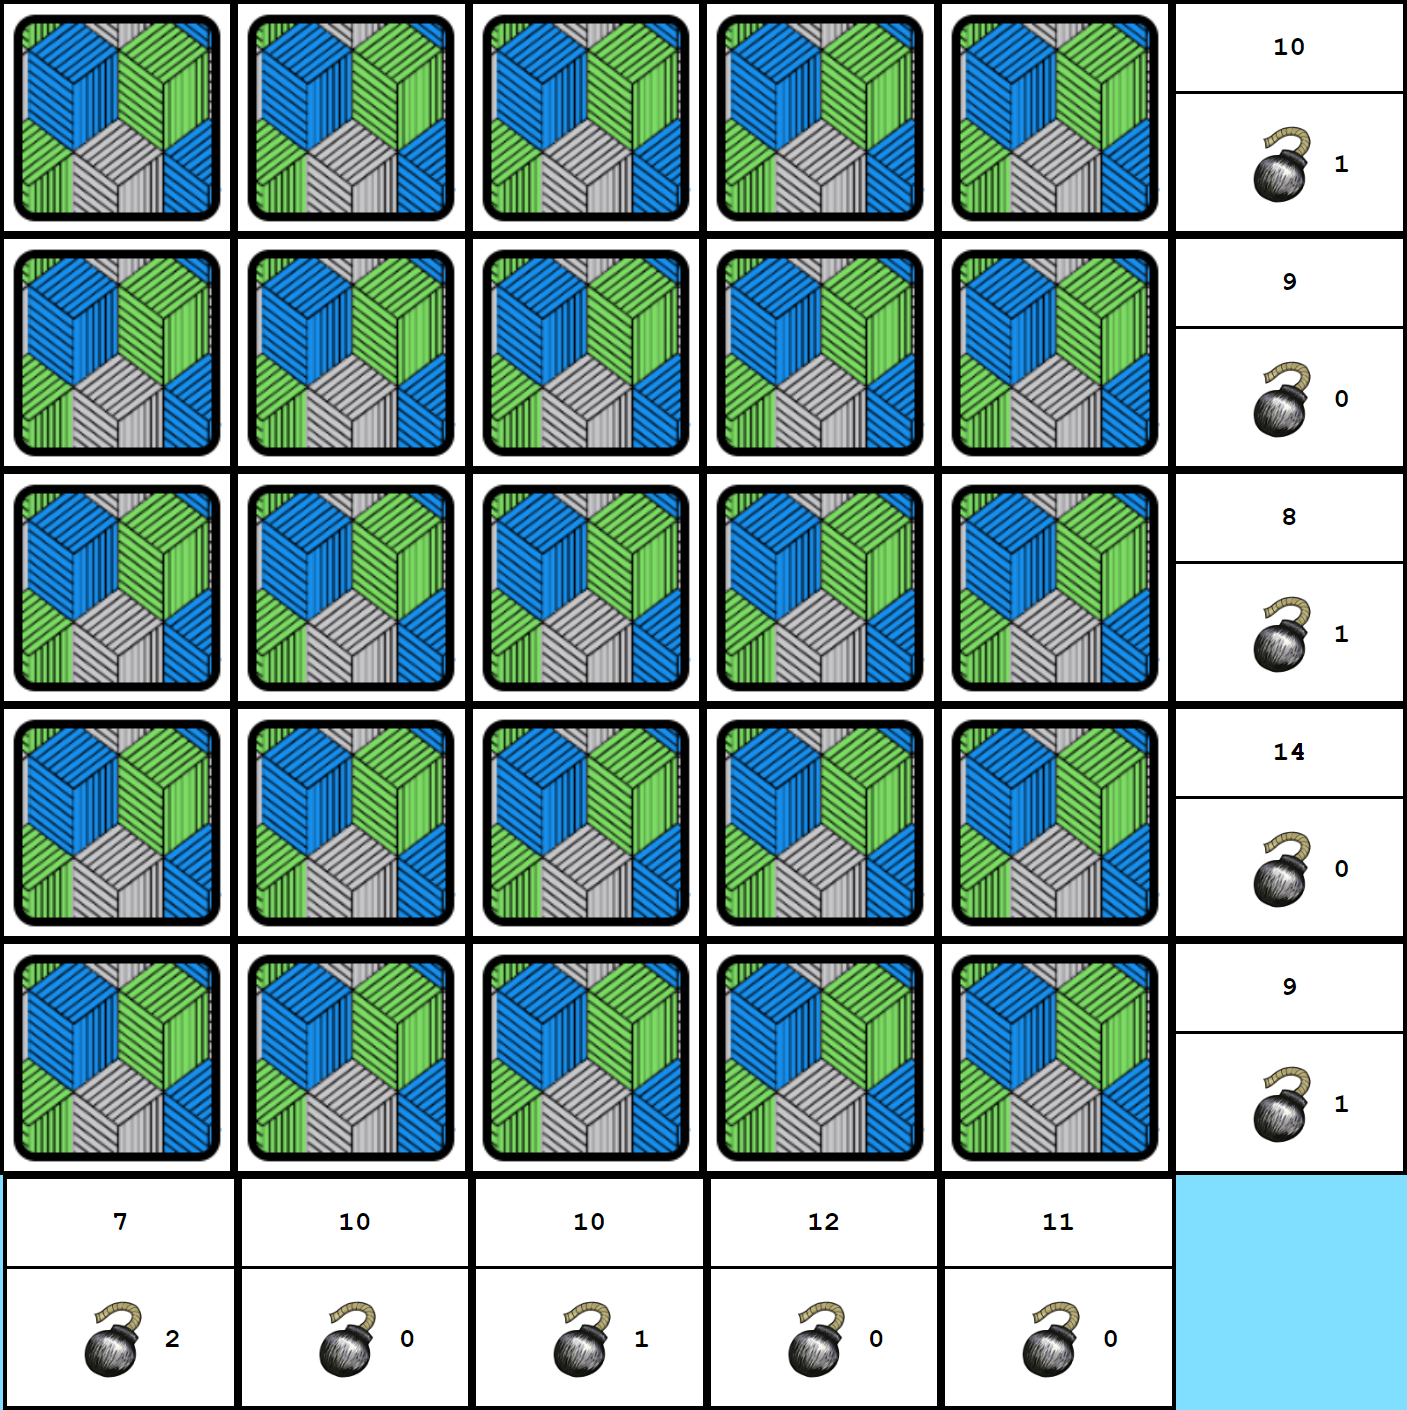
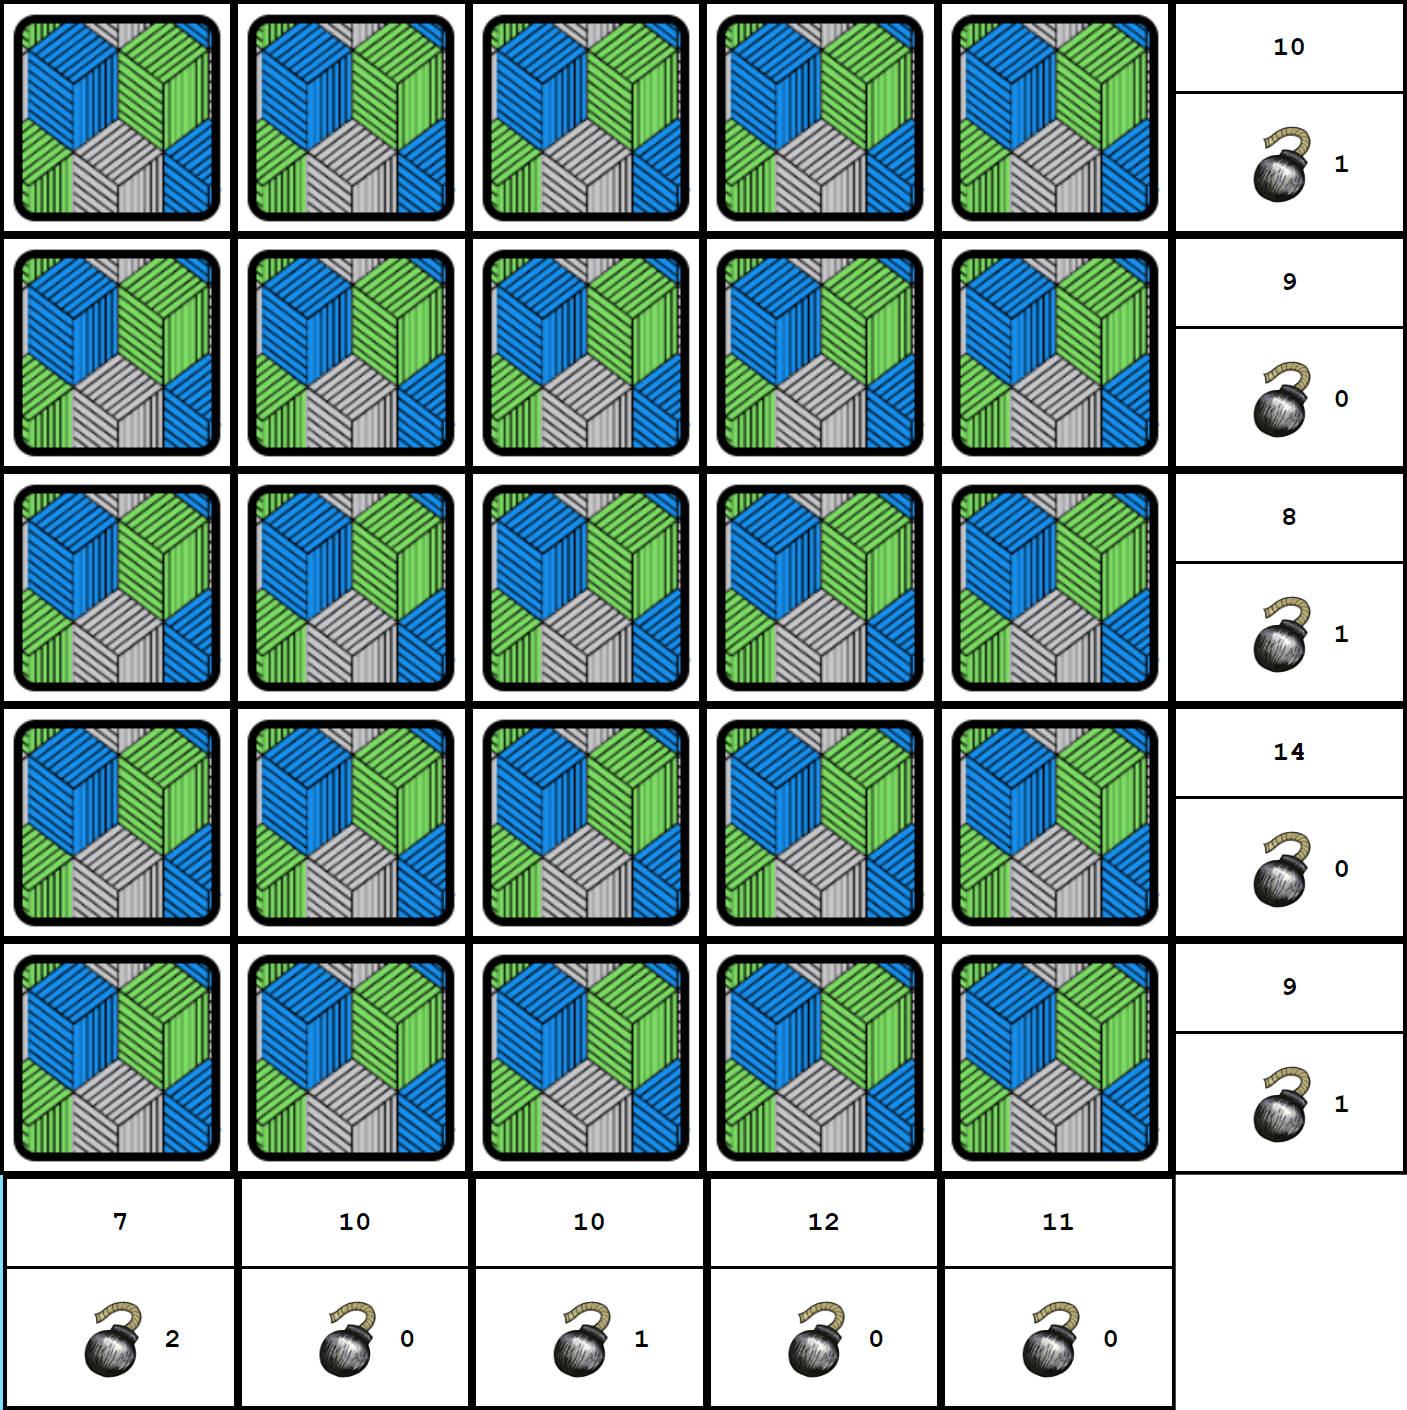
Changed BombFlip styling

Changed region(s): [[0.8252, 0.8113, 1.0, 1.0]]

diff --git a/bombflip/css/bombflip.css b/bombflip/css/bombflip.css
@@ -46,7 +46,7 @@ a:hover, a:visited:hover {
   display: inline-block; }
 
 .play-button {
-  border: 2px solid white;
+  border: 5px dashed white;
   font-weight: bold;
   font-size: 20px;
   padding: 10px;
@@ -54,7 +54,7 @@ a:hover, a:visited:hover {
 
 .how-to-button {
   margin-top: 20px;
-  border: 2px solid white;
+  border: 5px dashed white;
   font-weight: bold;
   font-size: 20px;
   padding: 10px;
@@ -173,15 +173,21 @@ a:hover, a:visited:hover {
 
 .game-board {
   width: 50%;
-  display: inline-block; }
+  display: inline-block;
+  background-color: white;
+  padding-left: 20px;
+  padding-right: 20px; }
 
 .bold {
   font-weight: bold; }
 
 .info-square {
-  display: inline;
-  width: 100%;
-  height: 50%; }
+  width: 50%;
+  display: inline-block;
+  height: 50%;
+  background-color: white;
+  padding-left: 20px;
+  padding-right: 20px; }
 
 .info-square-text {
   display: inline; }
@@ -196,4 +202,9 @@ a:hover, a:visited:hover {
   height: 80%; }
 
 .scoring {
-  margin-bottom: 150px; }
+  width: 50%;
+  display: inline-block;
+  margin-bottom: 150px;
+  background-color: white;
+  padding-left: 20px;
+  padding-right: 20px; }
